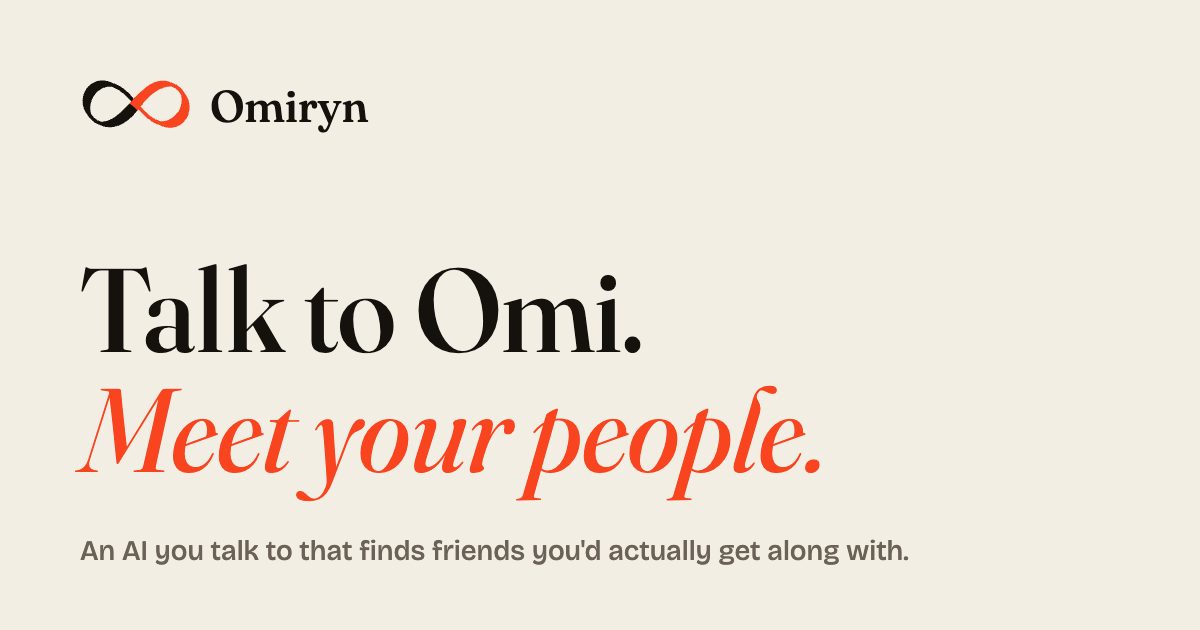
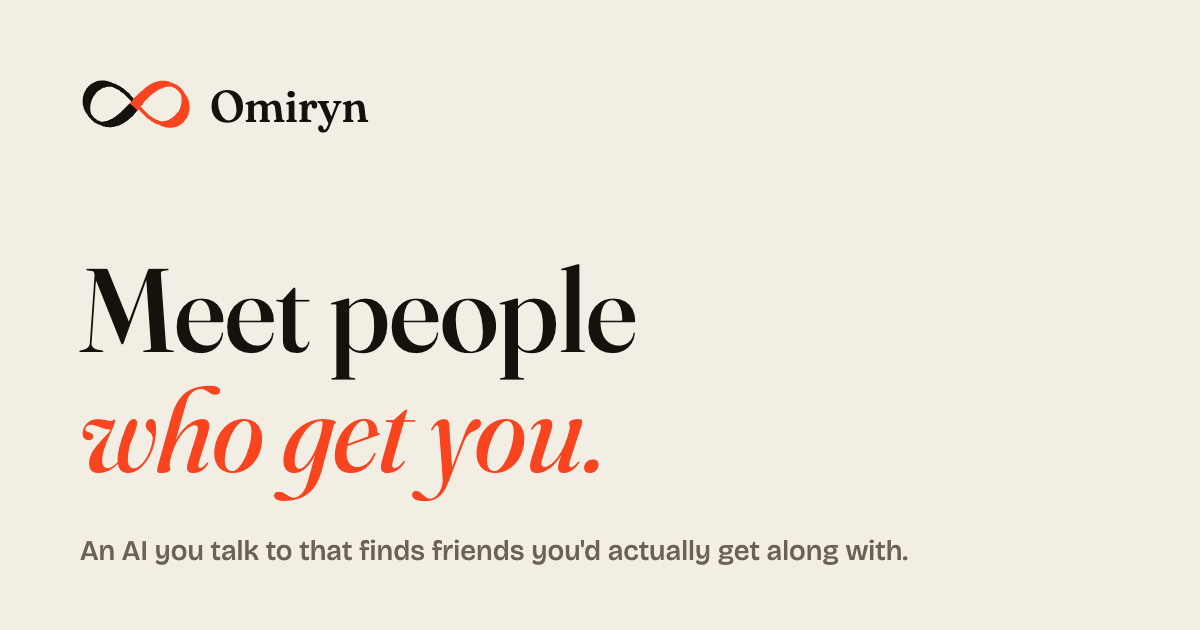
feat(landing): OG card carries the hero line

diff --git a/apps/landing/design-assets/mark-src/og-card.html b/apps/landing/design-assets/mark-src/og-card.html
@@ -25,10 +25,10 @@ window.drawOg = async function () {
   ctx.fillText("Omiryn", 210, 122);
   // headline
   ctx.font = '500 118px "Fraunces"';
-  ctx.fillText("Talk to Omi.", 80, 352);
+  ctx.fillText("Meet people", 80, 352);
   ctx.fillStyle = "#f8441f";
   ctx.font = 'italic 400 118px "Fraunces"';
-  ctx.fillText("Meet your people.", 80, 472);
+  ctx.fillText("who get you.", 80, 472);
   // footer line
   ctx.fillStyle = "#6b6257";
   ctx.font = '500 28px "Bricolage Grotesque"';
